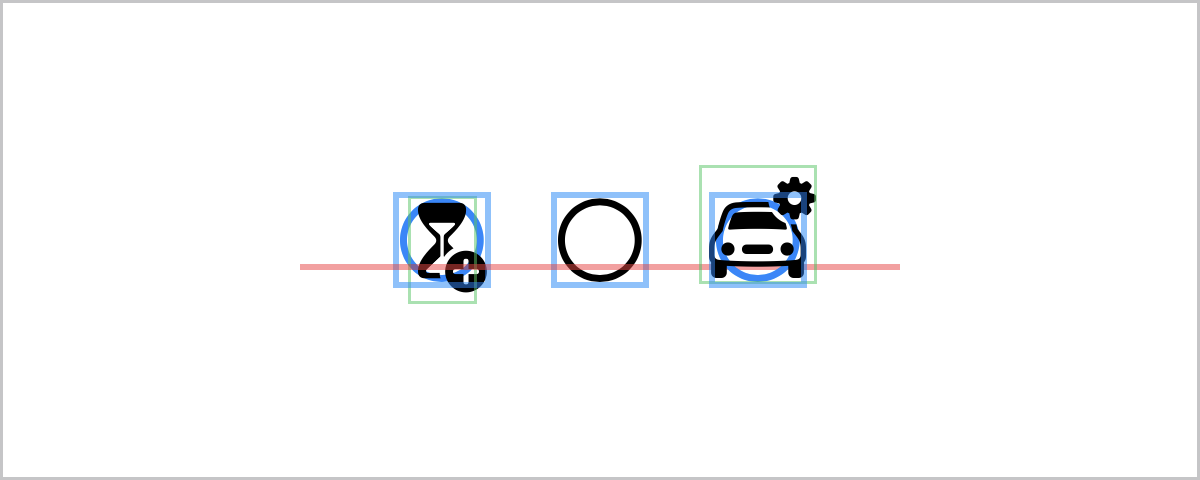
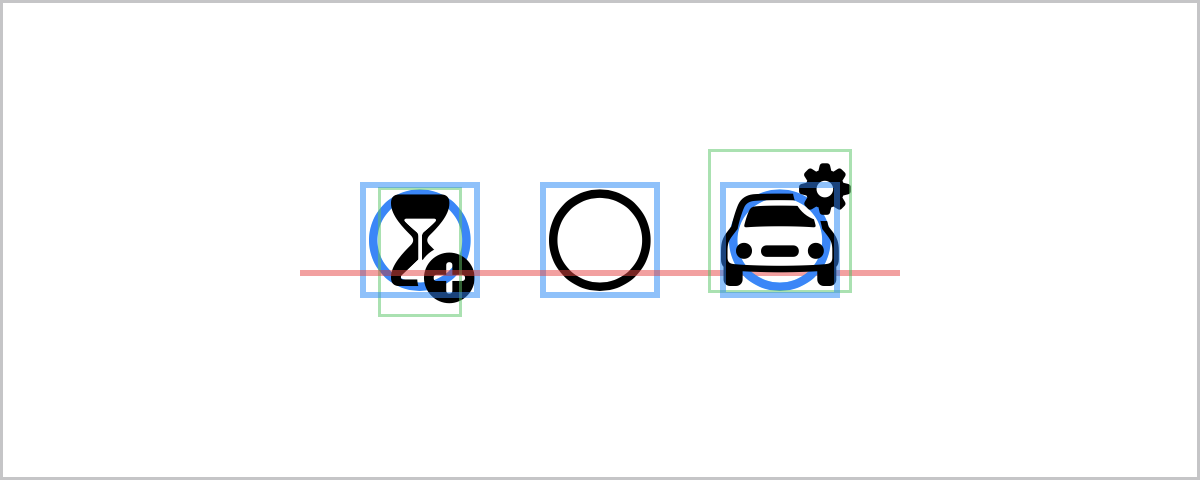
add illustrations for baselined style

Changed region(s): [[0.2467, 0.3125, 0.7708, 0.6875]]

diff --git a/illustrations-app/illustrations/IntricaciesOfCircularButtons.swift b/illustrations-app/illustrations/IntricaciesOfCircularButtons.swift
@@ -290,6 +290,43 @@ struct IntricaciesOfCircularButtons {
                     }
                     .border(.blue.secondary, width: 2)
                 }
+                .font(.largeTitle)
+            } // Illustration
+        }
+    }
+
+
+    struct GlassBaselinedStyle: ButtonStyle {
+        let length: CGFloat
+        func makeBody(configuration: Configuration) -> some View {
+            Image(systemName: "circle")
+            .hidden() // The circle symbols is never visible, but its layout size remains.
+            .overlay(alignment: .centerFirstTextBaseline) {
+                configuration.label
+                .labelStyle(.iconOnly)
+            }
+            .frame(width: length, height: length)
+            .glassEffect(.regular.interactive(), in: .circle)
+        }
+    }
+
+
+    @Test func glassBaselinedButtonStyleAligned() throws {
+        try storage.renderAndStore("glass-baselined-button-style-aligned", strategy: .windowHierarchy) {
+            DocumentationIllustration(sizing: .regular, background: .fadedMoltenHorizon) {
+                HStack(alignment: .firstTextBaseline) {
+                    Button("Envelope",  systemImage: "envelope.badge.shield.half.filled", action: {})
+                    Button("Hourglass", systemImage: "hourglass.badge.plus", action: {})
+
+                    Button("Seashell", systemImage: "fossil.shell", action: {})
+                    .drawAlignmentGuide(.top, length: 360)
+                    .drawAlignmentGuide(.firstTextBaseline, length: 360)
+                    .drawAlignmentGuide(.bottom, length: 360)
+
+                    Button("Car",  systemImage: "car.badge.gearshape", action: {})
+                    Button("Lock", systemImage: "lock.open.trianglebadge.exclamationmark.fill", action: {})
+                }
+                .buttonStyle(GlassBaselinedStyle(length: 60))
                 .font(.title)
             } // Illustration
         }
